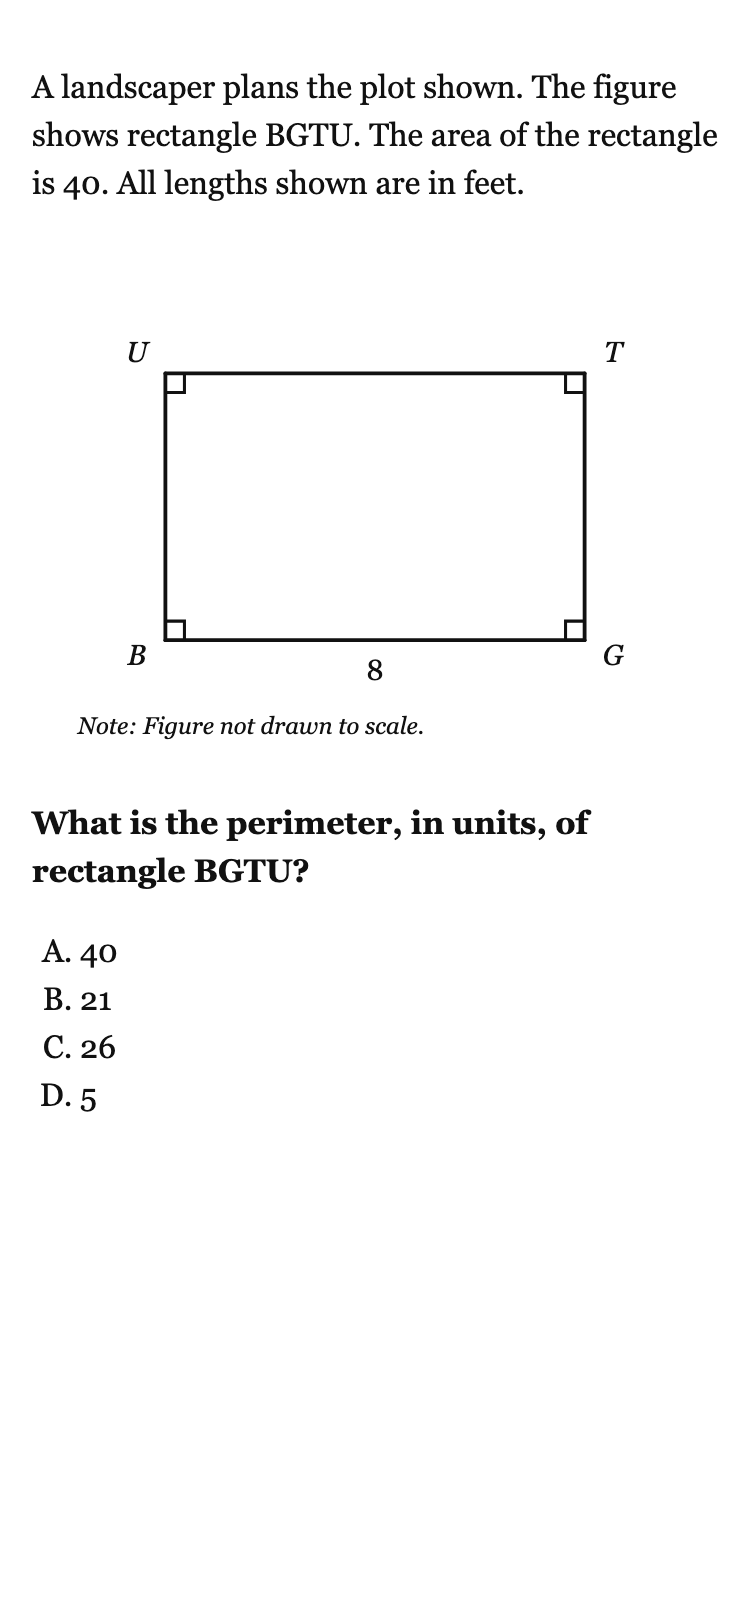
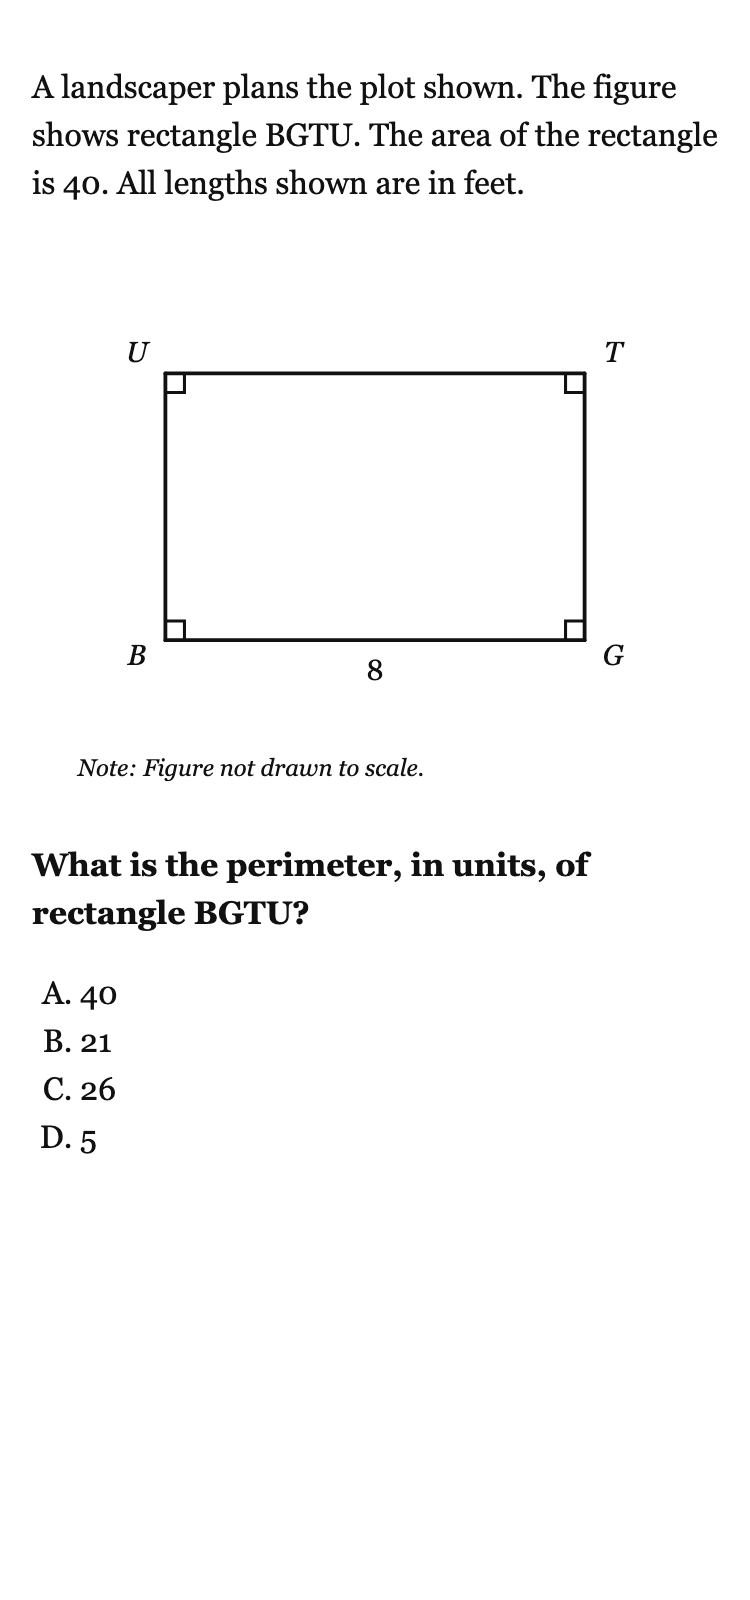
feat(figures): PG 다항식 분배 polynomial_distribution.PG.P(직사각형 식 라벨) + polygon Note 자리 예약·여백

Changed region(s): [[0.0307, 0.4375, 0.552, 0.7188], [0.552, 0.5, 0.7973, 0.5625]]

diff --git a/lib/problem-generation/math-archetypes/skills/fig/items/equivalent_expressions.polynomial_distribution.PG.P.ts b/lib/problem-generation/math-archetypes/skills/fig/items/equivalent_expressions.polynomial_distribution.PG.P.ts
@@ -1,0 +1,99 @@
+// equivalent_expressions.polynomial_distribution.PG.P — 직사각형 그림의 두 변이 x 의 일차식으로 라벨될 때 넓이를 분배·전개해 계수·값을 구한다.
+import { GenFail } from "../../../types";
+import { W } from "../../d-kit";
+import { figJs } from "../../../figure-kit";
+import { defineItem } from "../item-kit";
+import { geoInst } from "../geo-kit";
+import { PG_LEAD, quadNames, rectFig } from "../pg-kit";
+import { retry } from "../ext-kit";
+import type { Rng } from "../../../rng";
+
+const pos = (ws: ReturnType<typeof W>[]) => ws.filter((w) => Number.isInteger(w.v));
+/** a x + b 라벨(공백 포함): 3x + 2, x - 4. */
+const lab = (a: number, b: number) => `${a === 1 ? "" : a}x${b > 0 ? ` + ${b}` : b < 0 ? ` - ${-b}` : ""}`;
+const LIN_JS = "const lin=(l)=>{ const t=String(l).replace(/[\\s()]/g,'').replace(/−/g,'-'); let m=/^(\\d*)x([+-]\\d+)?$/.exec(t); if (m) return {a:m[1]===''?1:Number(m[1]), b:m[2]?Number(m[2]):0}; m=/^(\\d+)$/.exec(t); if (m) return {a:0,b:Number(m[1])}; throw new Error('변 라벨 형식 오류: '+l); }; const SLB=FIGURE.sideLabels||[]; const V=FIGURE.vertices; const sl=(a,b)=>{ const q=SLB.find(s=>s.label!==undefined&&((s.between[0]===a&&s.between[1]===b)||(s.between[0]===b&&s.between[1]===a))); if(!q) throw new Error('변 라벨 없음'); return q.label; }; const S1=lin(sl(V[0],V[1])), S2=lin(sl(V[1],V[2]));\n";
+const prod = (p: { a: number; b: number }, q: { a: number; b: number }) => ({ A2: p.a * q.a, A1: p.a * q.b + p.b * q.a, A0: p.b * q.b });
+const LEADS2 = [...PG_LEAD, "A carpenter is designing a tabletop. "];
+const intro = (rng: Rng, v: string[], extra = "") => `${rng.pick(LEADS2)}${rng.pick([`The figure shows rectangle $${v.join("")}$ whose side lengths are given in terms of $x$.`, `Rectangle $${v.join("")}$ is shown in the figure, with its side lengths expressed using $x$.`, `In the figure, the length and width of rectangle $${v.join("")}$ are linear expressions in $x$.`, `The sides of rectangle $${v.join("")}$ in the figure are labeled with expressions that contain $x$.`])}${extra}`.replace(/ {2,}/g, " ").trim();
+const FORM = (rng: Rng) => rng.pick([`The area of the rectangle can be written as $ax^2 + bx + c$, where $a$, $b$, and $c$ are constants.`, `When the area is expanded, it equals $ax^2 + bx + c$ for constants $a$, $b$, and $c$.`, `The area of the rectangle is equivalent to $ax^2 + bx + c$, where $a$, $b$, and $c$ are constants.`, `Written in standard form, the area is $ax^2 + bx + c$, with constants $a$, $b$, and $c$.`]);
+function sides(rng: Rng, o: { aMax?: number } = {}): { p: { a: number; b: number }; q: { a: number; b: number } } {
+  for (let t = 0; t < 60; t++) { const p = { a: rng.int(1, o.aMax ?? 4), b: rng.nz(-8, 9) }, q = { a: rng.int(1, o.aMax ?? 4), b: rng.nz(-8, 9) }; if (Math.abs(p.b) < 2 || Math.abs(q.b) < 2) continue; if (p.a === q.a && p.b === q.b) continue; return { p, q }; }
+  throw new GenFail("변 표집");
+}
+const fig = (rng: Rng, p: { a: number; b: number }, q: { a: number; b: number }) => { const v = quadNames(rng); return { v, f: rectFig(v, lab(p.a, p.b), lab(q.a, q.b)) }; };
+
+const RAW = defineItem({
+  prefix: "ee", itemId: "equivalent_expressions.polynomial_distribution.PG.P",
+  hard: [
+    {
+      op: "repr_shift", structure: "직사각형의 두 변이 (ax + b), (cx + d) 로 라벨된 그림에서 넓이를 분배·전개해 x 의 계수를 구함", extra: "넓이 = 두 변의 곱 으로 식을 세우고 x 항을 두 곳(ad·x 와 bc·x)에서 모아야 함(한 곳만 쓰면 오답) — medium 은 x² 의 계수",
+      concepts: ["직사각형의 넓이", "다항식의 분배", "동류항 정리"],
+      gen(rng) {
+        const { p, q } = sides(rng); const { A1 } = prod(p, q); if (A1 === 0) throw new GenFail("0"); const { v, f } = fig(rng, p, q);
+        return geoInst(rng, {
+          stimulus: `${intro(rng, v)} ${FORM(rng)}`, question: rng.pick([`What is the value of $b$?`, `What is the coefficient of $x$ in the expanded area?`, `In the expanded form of the area, what is $b$?`]), correct: A1,
+          wrongs: pos([W(p.a * q.b, "step_missing", "x 항 하나만 구했다."), W(p.b * q.a, "step_missing", "x 항 하나만 구했다."), W(p.a * q.a, "axis_misread", "x² 의 계수를 답했다."), W(p.b * q.b, "axis_misread", "상수항을 답했다."), W(p.a * q.b - p.b * q.a, "sign_error", "x 항을 빼서 구했다.")]).filter((w) => w.v !== A1),
+          verificationJs: figJs({}, f, `${LIN_JS}return S1.a*S2.b+S1.b*S2.a;`),
+          trace: [[`그림에서 두 변 ${lab(p.a, p.b)}, ${lab(q.a, q.b)} 를 읽는다.`, "Read the two side expressions."], [`넓이 = (${lab(p.a, p.b)})(${lab(q.a, q.b)}) 이다.`, "Area = length × width."], [`분배하면 x² 항 ${p.a * q.a}x², x 항 ${p.a * q.b}x + ${p.b * q.a}x, 상수항 ${p.b * q.b} 이다.`, "Distribute each term."], [`x 의 계수 = ${p.a * q.b} + (${p.b * q.a}) = ${A1} 이다.`, "Collect the x terms."], [`따라서 b = ${A1} 이다.`, "State b."]], variant: "x_coefficient_of_area",
+        }, f);
+      },
+    },
+    {
+      op: "chain2", structure: "직사각형의 두 변이 일차식으로 라벨된 그림에서 x 의 값이 지문에 주어질 때 각 변에 대입한 뒤 넓이를 구함", extra: "각 변에 x 를 대입(음수 상수 주의)하고 곱해야 함(식을 전개한 뒤 계수만 더하면 오답) — medium 은 한 변만 대입",
+      concepts: ["식의 대입", "직사각형의 넓이"],
+      gen(rng) { return retry(rng, () => {
+        const { p, q } = sides(rng, { aMax: 3 }); const t = rng.int(2, 9); const L = p.a * t + p.b, Wd = q.a * t + q.b; if (L <= 0 || Wd <= 0) throw new GenFail("음수 변"); const A = L * Wd; const { v, f } = fig(rng, p, q);
+        return geoInst(rng, {
+          stimulus: `${intro(rng, v)} The value of $x$ is ${t}.`, question: rng.pick([`What is the area of the rectangle?`, `What is the area of rectangle $${v.join("")}$ when $x = ${t}$?`, `How large is the area of the rectangle?`]), correct: A,
+          wrongs: pos([W(L + Wd, "formula_misuse", "합을 답했다."), W(2 * (L + Wd), "formula_misuse", "둘레를 답했다."), W((p.a * q.a * t * t) + (p.b * q.b), "step_missing", "교차항을 빠뜨렸다."), W(L * Wd + t, "other", "계산 중 어긋났다."), W(L * q.a * t + Wd, "other", "한 변만 대입했다.")]).filter((w) => w.v !== A),
+          verificationJs: figJs({ t }, f, `${LIN_JS}return (S1.a*P.t+S1.b)*(S2.a*P.t+S2.b);`),
+          trace: [[`그림에서 두 변 ${lab(p.a, p.b)}, ${lab(q.a, q.b)} 를 읽는다.`, "Read the two side expressions."], [`x = ${t} 를 대입: ${lab(p.a, p.b)} = ${L}.`, "Substitute into the first side."], [`${lab(q.a, q.b)} = ${Wd}.`, "Substitute into the second side."], [`넓이 = ${L} × ${Wd} 이다.`, "Multiply."], [`따라서 ${A} 이다.`, "State the area."]], variant: "area_at_x_value",
+        }, f);
+      }); },
+    },
+    {
+      op: "compose_kind", structure: "직사각형의 두 변이 일차식으로 라벨된 그림에서 넓이를 전개한 ax² + bx + c 의 계수의 합 a + b + c 를 구함", extra: "전개해 세 계수를 모두 구하고 더해야 함(x = 1 을 대입하면 빠르지만 일부만 더하면 오답) — medium 은 x 의 계수",
+      concepts: ["다항식의 분배", "계수", "동류항 정리"],
+      gen(rng) { return retry(rng, () => {
+        const { p, q } = sides(rng); const { A2, A1, A0 } = prod(p, q); const S = A2 + A1 + A0; const { v, f } = fig(rng, p, q);
+        return geoInst(rng, {
+          stimulus: `${intro(rng, v)} ${FORM(rng)}`, question: rng.pick([`What is the value of $a + b + c$?`, `What is the sum of the three coefficients $a$, $b$, and $c$?`, `In the expanded area, what is $a + b + c$?`]), correct: S,
+          wrongs: pos([W(A2 + A1, "step_missing", "상수항을 빠뜨렸다."), W(A2 + A0, "step_missing", "x 항을 빠뜨렸다."), W(p.a * q.b + p.b * q.a, "step_missing", "x 항만 답했다."), W(p.a * q.a + p.b * q.b + p.a * q.b, "step_missing", "x 항을 하나만 더했다."), W(S + (p.a + q.a), "other", "계산 중 어긋났다.")]).filter((w) => w.v !== S),
+          verificationJs: figJs({}, f, `${LIN_JS}return (S1.a+S1.b)*(S2.a+S2.b);`),
+          trace: [[`그림에서 두 변 ${lab(p.a, p.b)}, ${lab(q.a, q.b)} 를 읽는다.`, "Read the two sides."], [`넓이를 전개하면 ${A2}x² + ${A1}x + ${A0} 이다.`, "Expand the product."], [`a = ${A2}, b = ${A1}, c = ${A0} 이다.`, "Read the coefficients."], [`a + b + c = ${A2} + (${A1}) + (${A0}) 이다.`, "Add them."], [`따라서 ${S} 이다.`, "State the sum."]], variant: "sum_of_coefficients",
+        }, f);
+      }); },
+    },
+    {
+      op: "inverse", structure: "직사각형의 한 변이 (ax + b), 다른 변이 (cx + k) 로 라벨되고 전개한 넓이가 지문에 주어질 때 x 의 계수 비교로 k 를 거꾸로 구함", extra: "넓이의 x 항 = a·k + b·c 로 식을 세워 k 를 역산해야 함(상수항 bk 만 보면 오답) — medium 은 x² 의 계수",
+      concepts: ["다항식의 분배", "계수 비교", "일차방정식"],
+      gen(rng) { return retry(rng, () => {
+        const p = { a: rng.int(1, 4), b: rng.nz(-7, 8) }; const c = rng.int(1, 4); const k = rng.nz(-8, 9); if (Math.abs(p.b) < 2 || Math.abs(k) < 2) throw new GenFail("작음"); const { A2, A1, A0 } = prod(p, { a: c, b: k }); if (A1 === 0 || A0 === 0) throw new GenFail("0"); const v = quadNames(rng); const f = rectFig(v, lab(p.a, p.b), `${c === 1 ? "" : c}x + k`);
+        const ex = (a: number, b: number, c2: number) => `${a}x^2 ${b >= 0 ? "+" : "-"} ${Math.abs(b)}x ${c2 >= 0 ? "+" : "-"} ${Math.abs(c2)}`;
+        return geoInst(rng, {
+          stimulus: `${intro(rng, v)} ${rng.pick([`The area of the rectangle is $${ex(A2, A1, A0)}$, and $k$ is a constant.`, `When the area is expanded, it equals $${ex(A2, A1, A0)}$. The constant $k$ appears in one of the side lengths.`, `The expanded area of the rectangle is $${ex(A2, A1, A0)}$, where $k$ is a constant.`, `Multiplying the side lengths gives the area $${ex(A2, A1, A0)}$, and $k$ is an unknown constant.`, `The rectangle's area, written in expanded form, is $${ex(A2, A1, A0)}$.`])}`, question: rng.pick([`What is the value of $k$?`, `In the figure shown, what is $k$?`, `Which value of $k$ is consistent with the given area?`, `Find the constant $k$ in the second side length.`, `What constant $k$ makes the area of the rectangle equal to the given expression?`]), correct: k,
+          wrongs: pos([W(A0 / p.b === k ? k + 1 : Math.round(A0 / p.b), "step_missing", "상수항만 보고 구했다."), W(A1, "axis_misread", "x 의 계수를 답했다."), W(A0, "axis_misread", "상수항을 답했다."), W(-k, "sign_error", "부호를 바꿨다."), W(k + 1, "other", "계산 중 어긋났다.")]).filter((w) => w.v !== k),
+          verificationJs: figJs({ A1, A0 }, f, `const lin=(l)=>{ const t=String(l).replace(/[\\s()]/g,'').replace(/−/g,'-'); let m=/^(\\d*)x([+-]\\d+)?$/.exec(t); if (m) return {a:m[1]===''?1:Number(m[1]), b:m[2]?Number(m[2]):0}; throw new Error('형식 오류'); }; const SLB=FIGURE.sideLabels; const V=FIGURE.vertices; const sl=(a,b)=>SLB.find(s=>(s.between[0]===a&&s.between[1]===b)||(s.between[0]===b&&s.between[1]===a)).label; const S1=lin(sl(V[0],V[1])); const m2=/^(\\d*)x\\+k$/.exec(String(sl(V[1],V[2])).replace(/\\s/g,'')); if (!m2) throw new Error('둘째 변 형식'); const c=m2[1]===''?1:Number(m2[1]); const k=(P.A1-S1.b*c)/S1.a; if (!Number.isInteger(k)) throw new Error('k 정수 아님'); if (S1.b*k!==P.A0) throw new Error('상수항 불일치'); return k;`),
+          trace: [[`그림에서 변 ${lab(p.a, p.b)} 와 ${c === 1 ? "" : c}x + k 를 읽는다.`, "Read the side expressions."], [`넓이 = (${lab(p.a, p.b)})(${c === 1 ? "" : c}x + k) 를 전개한다.`, "Expand the product."], [`x 항: ${p.a}k + ${p.b * c} = ${A1} 이다.`, "Compare the x coefficients."], [`${p.a}k = ${A1 - p.b * c} 이므로 k = ${k} 이다.`, "Solve for k."], [`상수항 ${p.b}·${k} = ${A0} 으로 확인한다.`, "Check with the constant term."]], variant: "unknown_constant_from_area",
+        }, f);
+      }); },
+    },
+  ],
+  em: [
+    {
+      lv: "easy", name: "constant_term", structure: "직사각형의 두 변이 일차식으로 라벨된 그림에서 넓이를 전개한 상수항을 구함", extra: "easy: 두 상수항의 곱", concepts: ["다항식의 분배", "상수항"],
+      gen(rng) { return retry(rng, () => {
+        const { p, q } = sides(rng); const { v, f } = fig(rng, p, q); const A0 = p.b * q.b;
+        return geoInst(rng, { stimulus: `${intro(rng, v)} ${FORM(rng)}`, question: rng.pick([`What is the value of $c$?`, `What is the constant term of the expanded area?`]), correct: A0, wrongs: pos([W(p.b + q.b, "formula_misuse", "상수항을 더했다."), W(p.a * q.a, "axis_misread", "x² 의 계수를 답했다."), W(p.a * q.b + p.b * q.a, "axis_misread", "x 의 계수를 답했다."), W(-A0, "sign_error", "부호를 바꿨다.")]).filter((w) => w.v !== A0), verificationJs: figJs({}, f, `${LIN_JS}return S1.b*S2.b;`), trace: [[`그림에서 두 변 ${lab(p.a, p.b)}, ${lab(q.a, q.b)} 를 읽는다.`, "Read the two sides."], [`상수항은 두 변의 상수항의 곱 (${p.b})(${q.b}) = ${A0} 이다.`, "Multiply the constant terms."]], variant: "constant_term_of_area" }, f);
+      }); },
+    },
+    {
+      lv: "medium", name: "constant_and_x", structure: "직사각형의 두 변이 (x + p), (x + q) 로 라벨된 그림에서 넓이를 전개한 x 의 계수를 구함", extra: "medium: p + q", concepts: ["다항식의 분배", "동류항 정리"],
+      gen(rng) { return retry(rng, () => {
+        const p = { a: 1, b: rng.nz(-9, 9) }, q = { a: 1, b: rng.nz(-9, 9) }; if (Math.abs(p.b) < 2 || Math.abs(q.b) < 2 || p.b === q.b || p.b + q.b === 0) throw new GenFail("범위"); const { v, f } = fig(rng, p, q); const B = p.b + q.b;
+        return geoInst(rng, { stimulus: `${intro(rng, v)} ${FORM(rng)}`, question: rng.pick([`What is the value of $b$?`, `What is the coefficient of $x$ in the expanded area?`]), correct: B, wrongs: pos([W(p.b * q.b, "axis_misread", "상수항을 답했다."), W(p.b - q.b, "sign_error", "차를 답했다."), W(1, "axis_misread", "x² 의 계수를 답했다."), W(B + 1, "other", "계산 중 어긋났다.")]).filter((w) => w.v !== B), verificationJs: figJs({}, f, `${LIN_JS}return S1.a*S2.b+S1.b*S2.a;`), trace: [[`그림에서 두 변 ${lab(1, p.b)}, ${lab(1, q.b)} 를 읽는다.`, "Read the two sides."], [`전개하면 x² + (${p.b} + ${q.b})x + ${p.b * q.b} 이다.`, "Expand."], [`x 의 계수 = ${B} 이다.`, "Collect the x terms."]], variant: "x_coefficient_monic" }, f);
+      }); },
+    },
+  ],
+});
+export const ITEM = RAW;

diff --git a/lib/problem-generation/math-archetypes/skills/fig/bundles/G8-polygon-circle-composite.ts b/lib/problem-generation/math-archetypes/skills/fig/bundles/G8-polygon-circle-composite.ts
@@ -4,6 +4,7 @@ import { ITEM as avRectPg } from "../items/area_volume.rectangle_area.PG.P";
 import { ITEM as avRectPgC } from "../items/area_volume.rectangle_area.PG.C";
 import { ITEM as avTriPg } from "../items/area_volume.triangle_area.PG.P";
 import { ITEM as latPolyPg } from "../items/lines_angles_triangles.polygon_interior_angle.PG.P";
+import { ITEM as eePolyPg } from "../items/equivalent_expressions.polynomial_distribution.PG.P";
 import { ITEM as avTrapPg } from "../items/area_volume.trapezoid_parallelogram_area.PG.P";
 
-export const BUNDLE: LArch[] = [...avRectPg, ...avRectPgC, ...avTriPg, ...avTrapPg, ...latPolyPg];
+export const BUNDLE: LArch[] = [...avRectPg, ...avRectPgC, ...avTriPg, ...avTrapPg, ...latPolyPg, ...eePolyPg];

diff --git a/lib/problem-figures/templates/polygon.ts b/lib/problem-figures/templates/polygon.ts
@@ -107,8 +107,9 @@ function shape(spec: PolygonSpec): Pt[] {
 }
 
 export function renderPolygon(spec: PolygonSpec): { svg: string; alt: string; issues: FigureIssue[] } {
-  const W = 360, H = spec.notToScale ? 270 : 250;
+  const W = 360, H = spec.notToScale ? 292 : 250; // 'Note' 문구가 아래 변 라벨에 닿지 않게 여유를 둔다
   const sheet = new Sheet(W, H);
+  if (spec.notToScale) sheet.reserve(24 + 85, H - 14, "Note: Figure not drawn to scale.", 12.5); // 'Note' 자리를 라벨이 침범하면 충돌로 잡는다
   const issues: FigureIssue[] = [];
   const pts = shape(spec);
   const n = pts.length;
